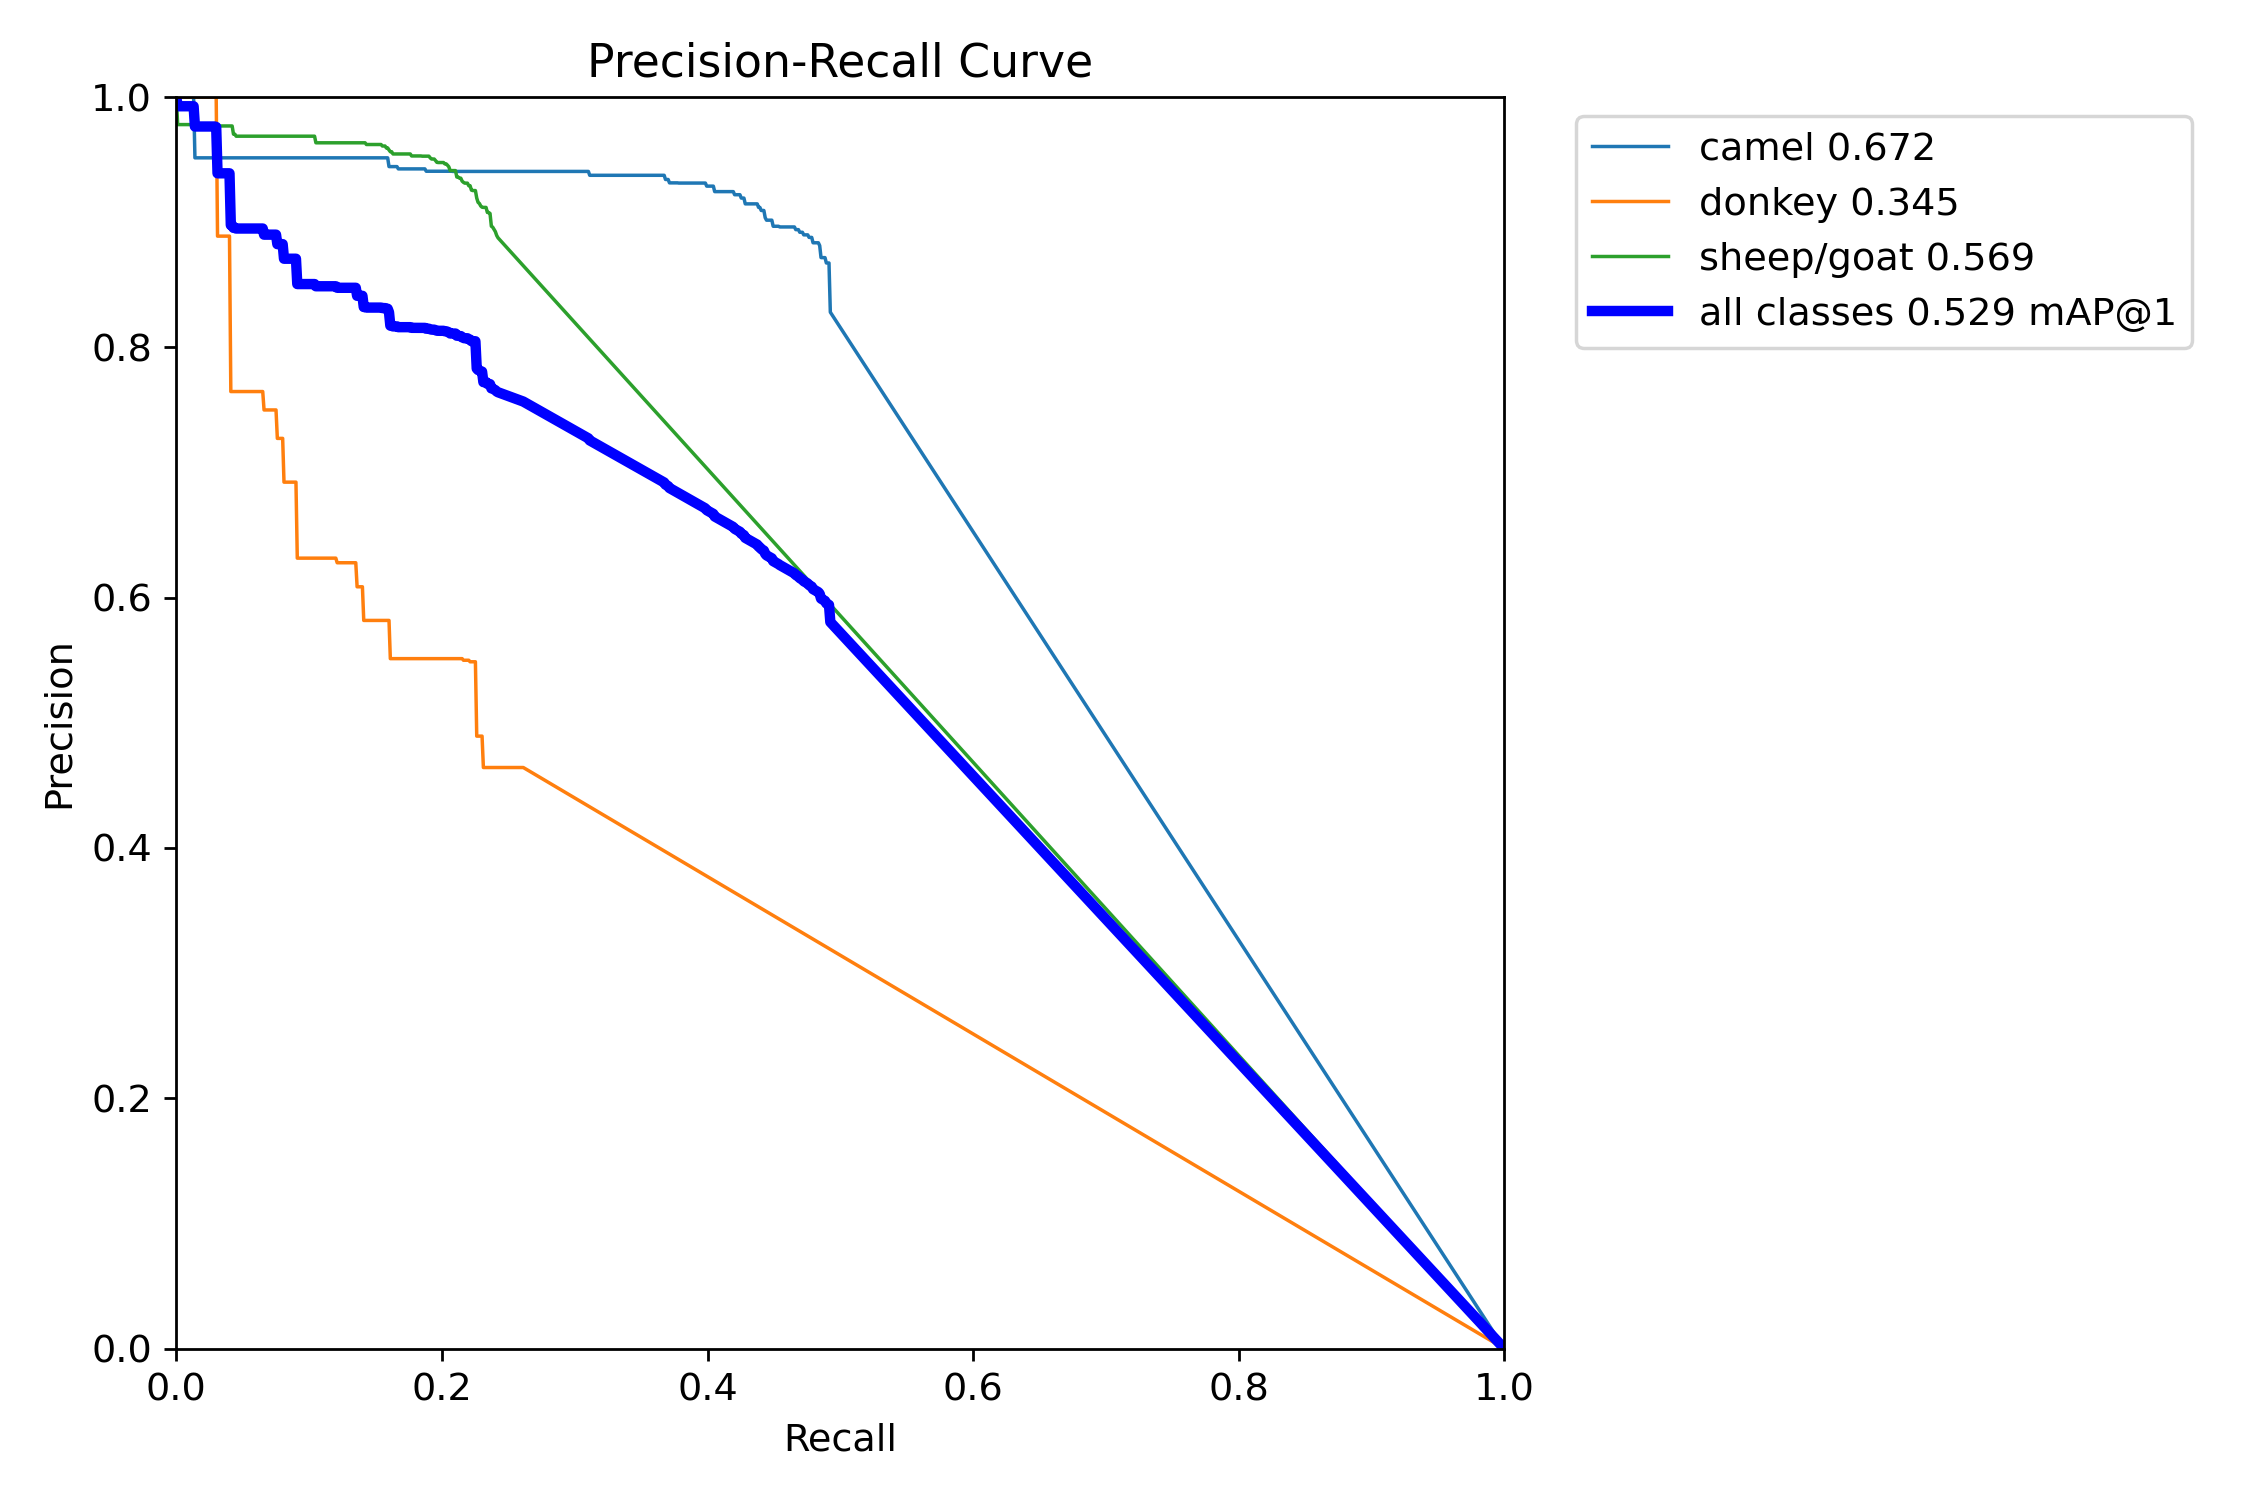
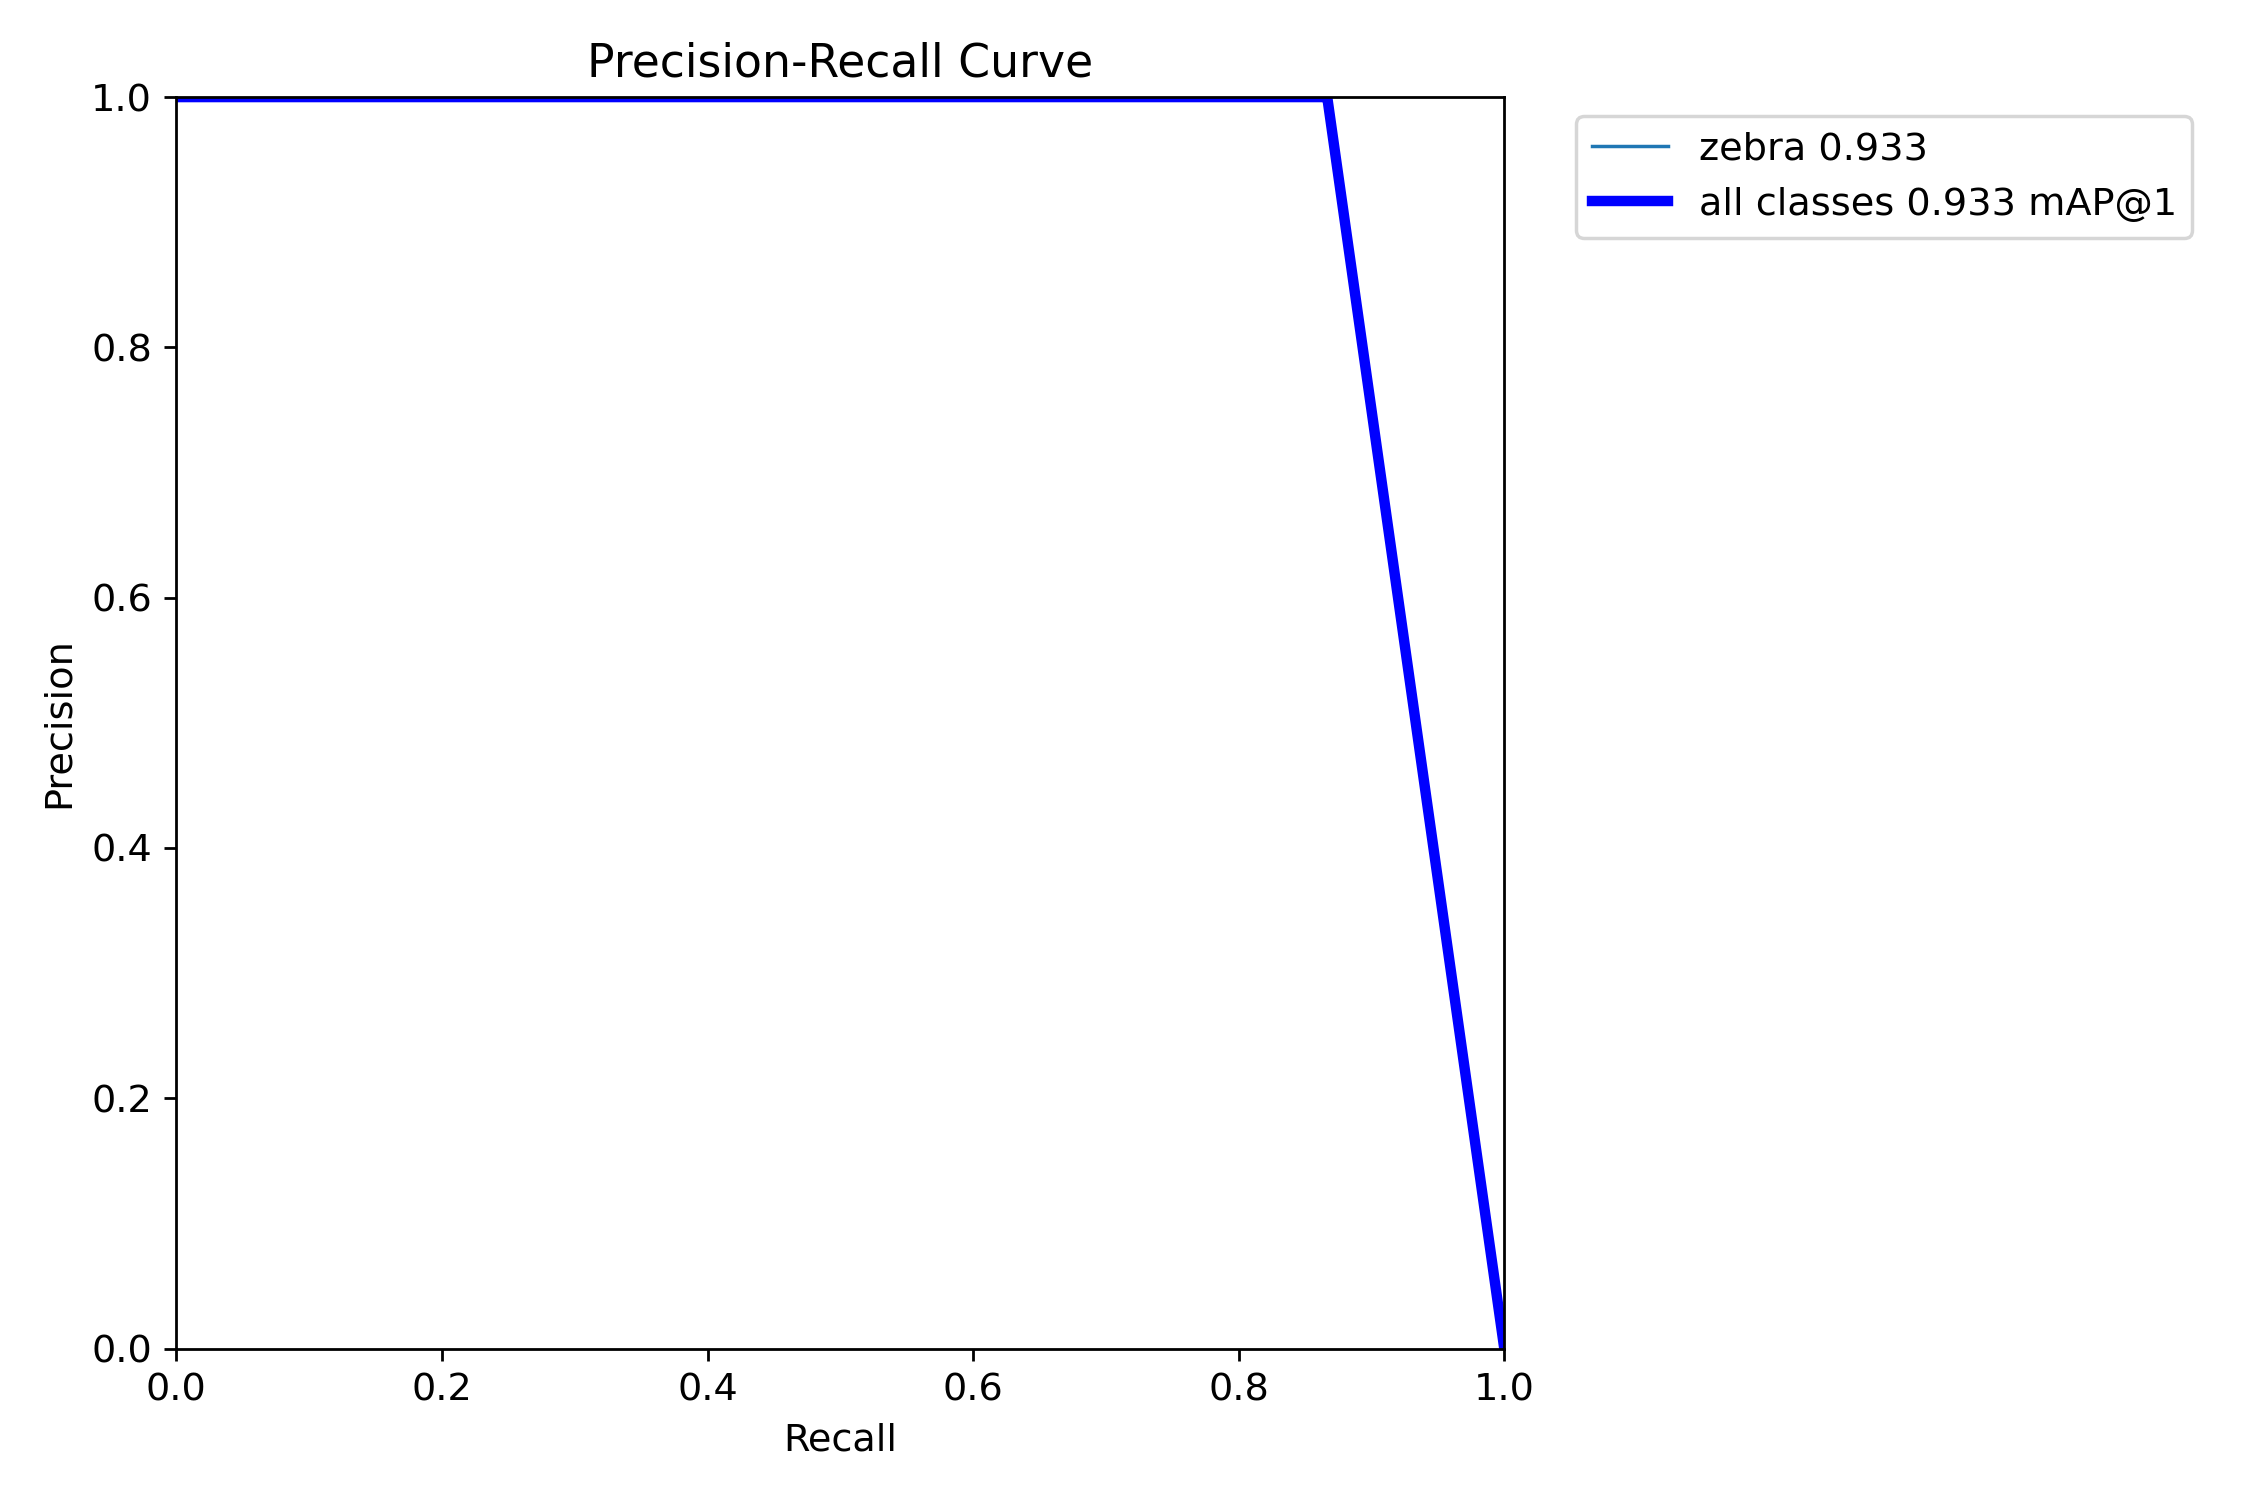
Bug

diff --git a/ultralytics/utils/ops.py b/ultralytics/utils/ops.py
@@ -487,7 +487,16 @@ def non_max_suppression_loc(
         i = i[:max_det]  # limit detections
 
         output[xi] = x[i]
-        
+
+    # DEBUG
+    out_pre_locs = scale_locations(img1_shape=[672, 672], locations=x.clone()[:, :2], img0_shape=[640, 640], ratio_pad=[[1.0, 1.0], [16, 16]])
+    x_out = torch.cat((out_pre_locs, x[:out_pre_locs.shape[0], 2:]), 1)
+
+    out_post_locs = scale_locations(img1_shape=[672, 672], locations=output[0].clone()[:, :2], img0_shape=[640, 640], ratio_pad=[[1.0, 1.0], [16, 16]])
+    post_out = torch.cat((out_post_locs, output[0][:out_post_locs.shape[0], 2:]), 1)
+
+    torch.save(x_out, f"/home/giacomo/projects/MPI_ungulates_POLO/results/experiments/eval_vis/pre_nms.pt")
+    torch.save(post_out, f"/home/giacomo/projects/MPI_ungulates_POLO/results/experiments/eval_vis/post_nms.pt")
     return output
 def clip_boxes(boxes, shape):
     """Clip bounding boxes to image boundaries.

diff --git a/ultralytics/engine/validator.py b/ultralytics/engine/validator.py
@@ -325,7 +325,7 @@ class BaseValidator:
         Args:
             pred_classes (torch.Tensor): Predicted class indices of shape(N,).
             true_classes (torch.Tensor): Target class indices of shape(M,).
-            dor (torch.Tensor): An NxM tensor containing the pairwise DoR values for predictions and ground of truth
+            dor (torch.Tensor): An NxM tensor containing the pairwise DoR values for predictions and ground truth
             use_scipy (bool): Whether to use scipy for matching (more precise).
 
         Returns:
